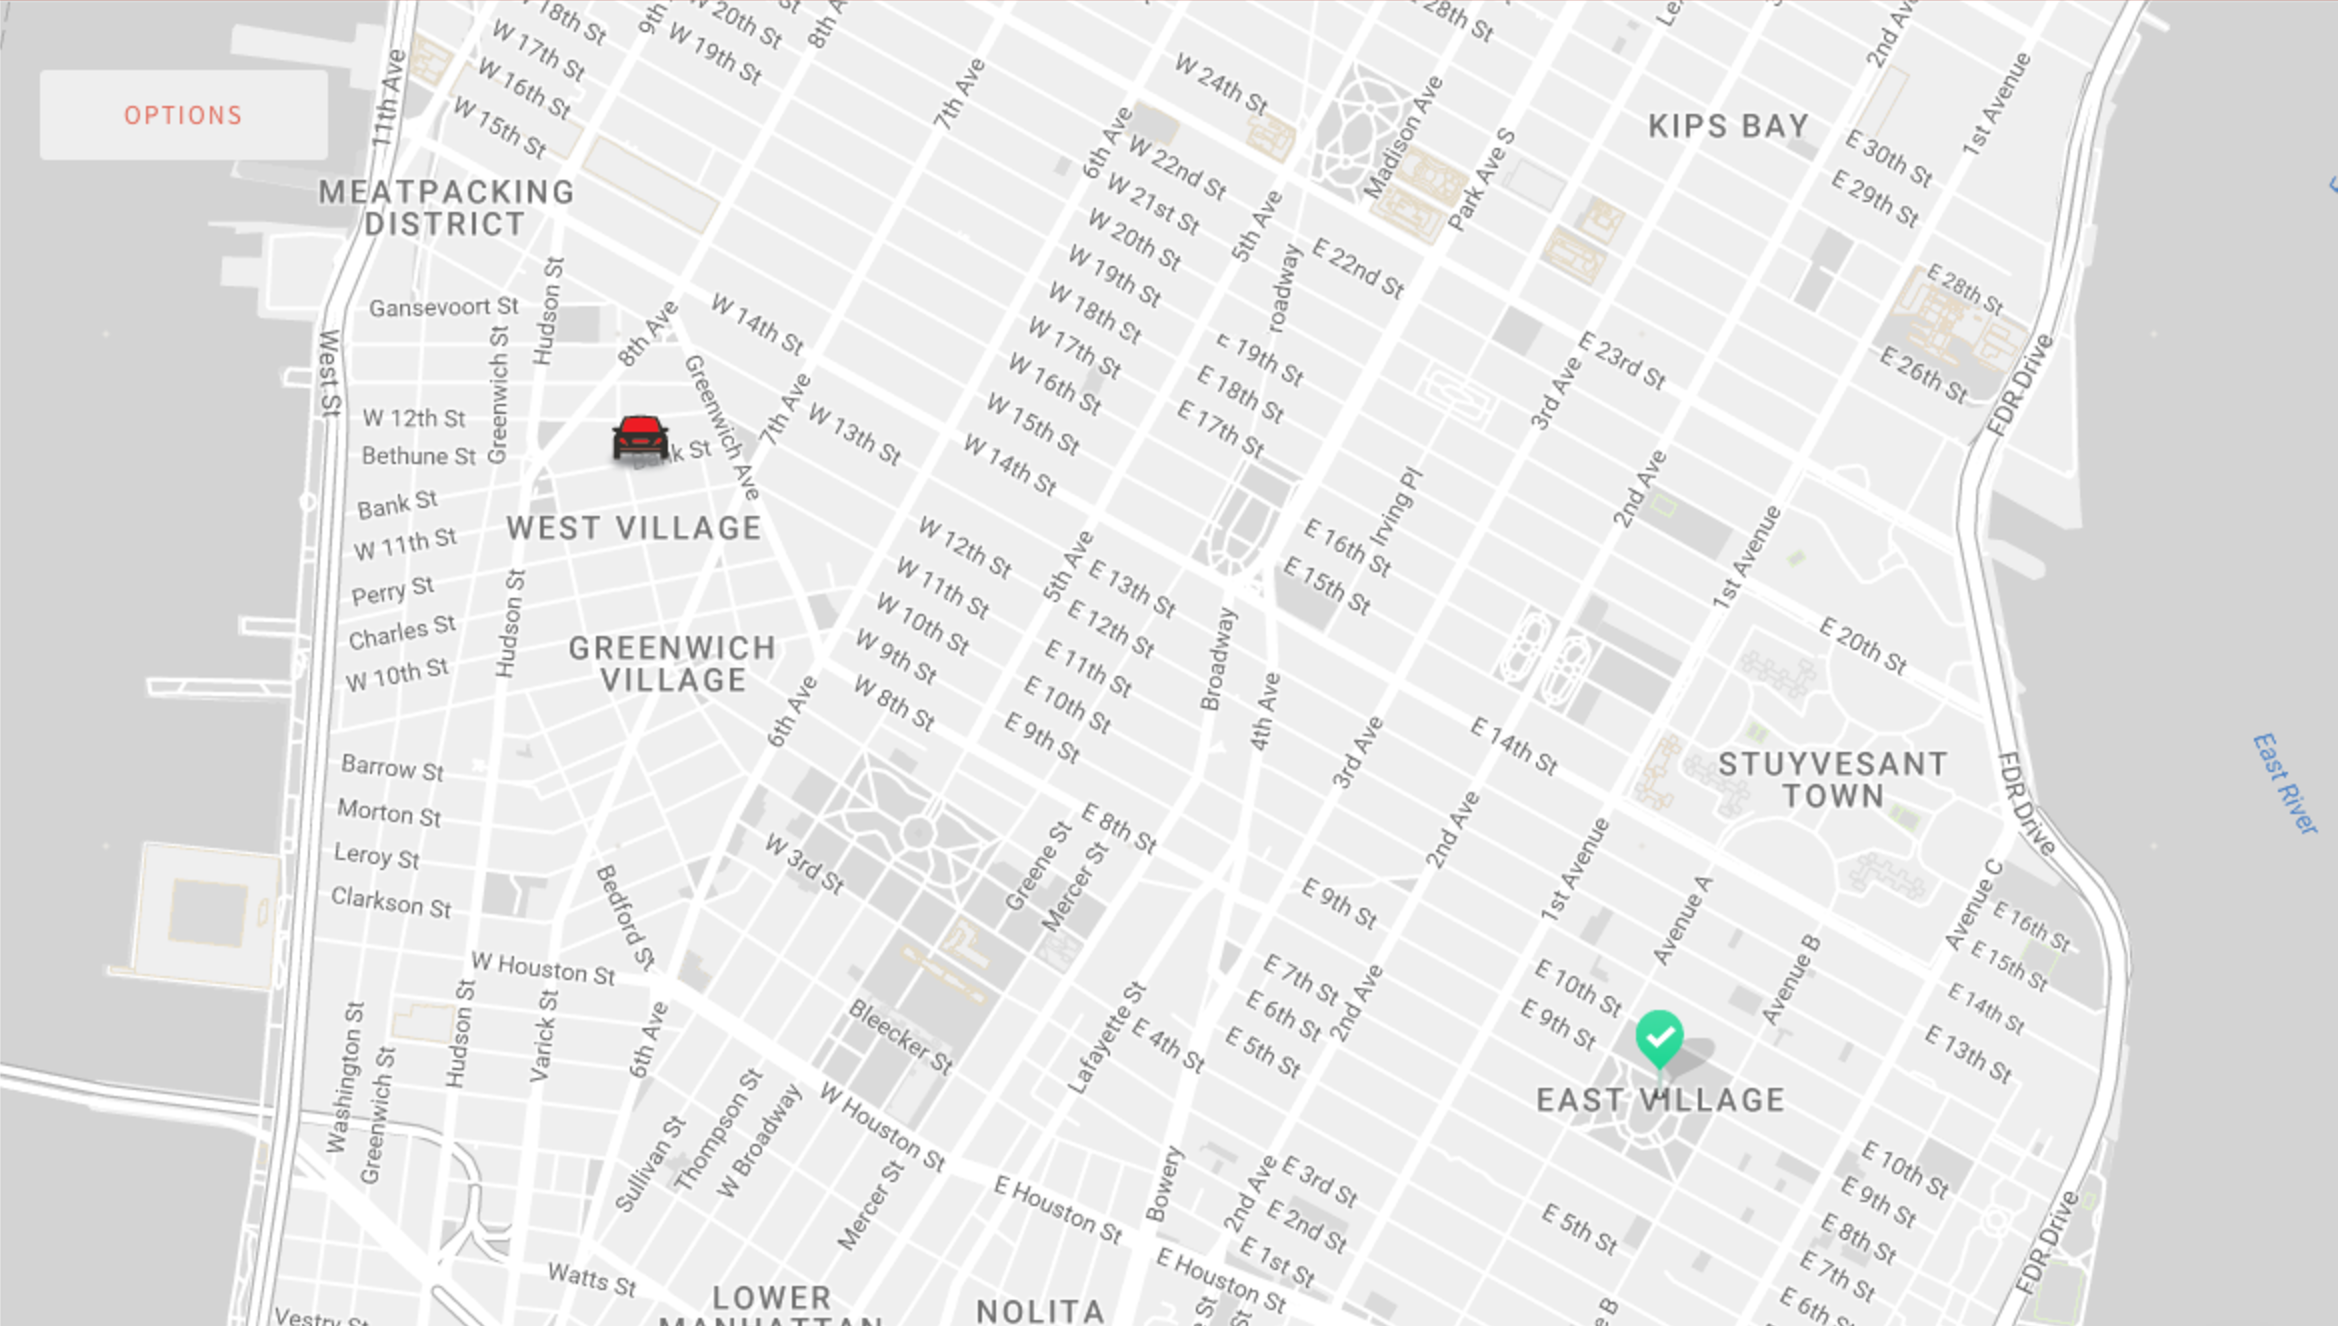
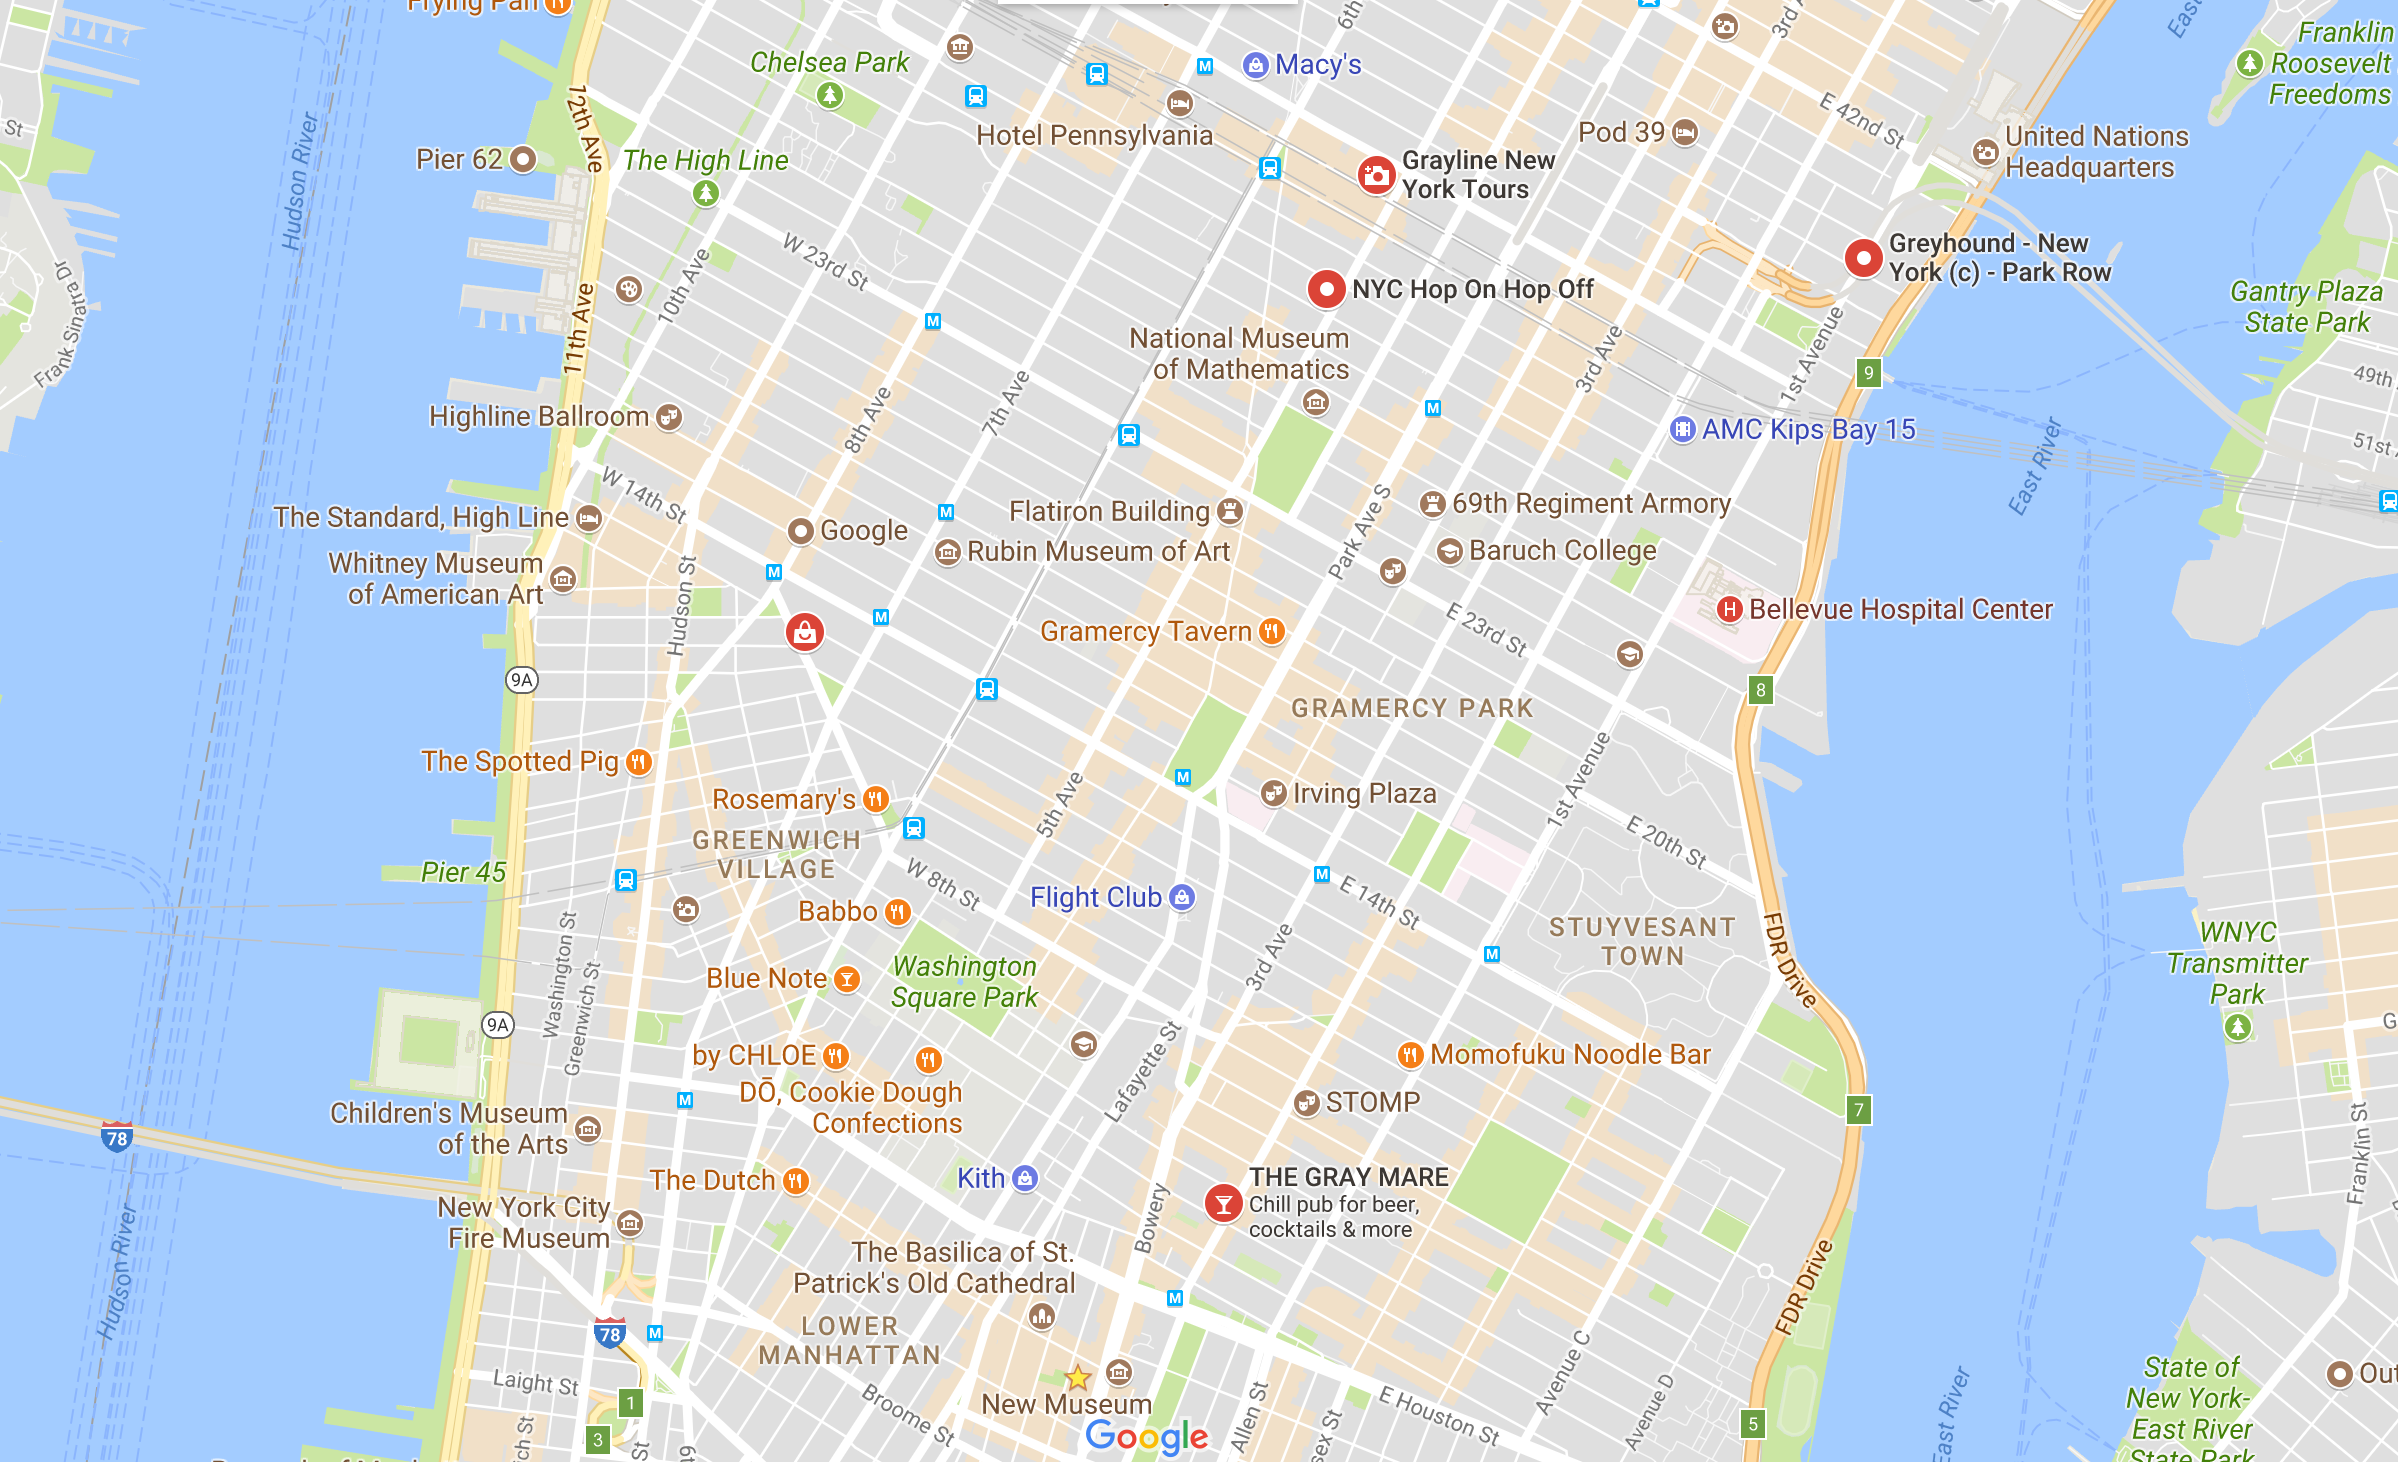
add map

diff --git a/style/css/style.min.css b/style/css/style.min.css
@@ -1,1 +1,1 @@
-body{display:flex;flex:1;margin:0;flex-direction:column;font-family:'Helvetica Neue';letter-spacing:1px;height:100%;width:100%}nav{display:flex;background-color:#E06857;width:100%;height:50px;align-items:center;justify-content:flex-end}nav ul{display:flex;list-style-type:none;align-items:center;margin:0}nav ul li{display:inline;margin-left:20px;margin-right:20px}nav ul li a{text-decoration:none;color:#FFF;font-weight:500}.app-container{display:flex;flex:1;height:100%;width:100%;flex-direction:row}.app-container #map{background-color:green;height:800px;width:100%}.app-container #map #map-options-btn{height:50px;width:140px;border-radius:3px;border-style:none;font-size:16px;color:#E06857;background-color:#eee;cursor:pointer;letter-spacing:1.5px;margin-top:30px;margin-left:20px}.app-container #side-menu{display:flex;flex-direction:column;align-items:center;width:22%;background-color:#FFF;padding:20px 15px}.app-container #side-menu #search{width:100%;height:55px;border-radius:3px;border-style:solid;border-width:2px;border-color:#eee;padding-left:18px;font-size:16px}.app-container #side-menu #menu-btn{height:50px;width:100%;border-radius:3px;border-style:none;font-size:16px;color:#E06857;background-color:#eee;cursor:pointer;letter-spacing:1.5px}.side-menu-el{margin-top:10px;margin-bottom:10px;width:100%}.side-menu-el-container{display:flex;flex:1;flex-direction:column;align-items:center;background-color:#eee;border-radius:3px;padding:15px 6px 8px 6px}.side-menu-el-container .title{font-size:14px;color:#E06857;margin:0}.side-menu-el-container .element{margin-top:15px;width:100%}.card{background-color:#FFF;border-radius:3px;padding:12px 6px;box-shadow:0 2px rgba(0,0,0,0.1)}.card .card-content{flex-direction:row;display:flex;justify-content:space-between}.driver-info{flex-direction:row;display:flex}.driver-info .driver-img{border-radius:4px;height:30px;width:30px}.driver-info .driver-details .driver-name{font-size:11px;margin:1px 8px;font-weight:600;color:#E06857}.driver-info .driver-details .driver-jobs{font-size:10px;margin:1px 8px;color:#969696}.driver-availability{text-align:right}.driver-availability .available-in{font-size:11px;margin:1px 0;font-weight:600;color:#000}.driver-availability .available-minutes{font-size:10px;margin:1px 0;color:#969696}.job-details .job-number{font-size:12px;margin:1px 8px;color:#969696;margin:3px 0}.job-details .job-location{font-size:12px;color:#E06857;margin:3px 0}.job-details .job-author{font-size:12px;font-weight:700;color:#1FD794;margin:3px 0}.job-details .job-due{font-size:12px;color:#F0434A;margin:3px 0}.job-current{display:flex;flex-direction:column;justify-content:space-between;align-items:flex-end}.job-current .job-status{color:#F0434A;font-size:12px;font-weight:600;margin:3px 0}@media screen and (max-width: 860px){.card .card-content{flex-direction:column;align-items:center}.app-container #side-menu{width:30%}.app-container #side-menu #search{height:40px;font-size:14px}.app-container #side-menu #menu-btn{height:35px;font-size:14px}.side-menu-el-container .title{font-size:12px;color:#E06857;margin:0}.driver-info .driver-details .driver-name{font-size:10px}.driver-info .driver-details .driver-jobs{font-size:10px}.driver-availability{text-align:center}.driver-availability .available-in{font-size:10px;margin-top:10px}.driver-availability .available-minutes{font-size:10px}.job-current{align-items:center;margin-top:10px}}@media screen and (max-width: 700px){nav{height:40px}nav ul li a{font-size:16px}nav ul li a img{height:22px;width:22px}.app-container #map #map-options-btn{font-size:12px;height:40px;width:100px;margin-top:20px;margin-left:10px}.app-container #side-menu{width:35%}.app-container #side-menu #search{height:35px;font-size:12px}.app-container #side-menu #menu-btn{height:30px;font-size:12px}.side-menu-el-container .title{font-size:10px;color:#E06857;margin:0}.driver-info .driver-details .driver-name{font-size:9px}.driver-info .driver-details .driver-jobs{font-size:9px}.driver-availability{text-align:center}.driver-availability .available-in{font-size:9px;margin-top:10px}.driver-availability .available-minutes{font-size:9px}.job-current{align-items:center;margin-top:10px}}@media screen and (max-width: 450px){nav{justify-content:center}nav ul{padding:0}nav ul li{margin-right:14px;margin-left:14px}.app-container{flex-direction:column-reverse}.app-container #map #map-options-btn{font-size:9px;height:30px;width:70px;margin-top:20px;margin-left:10px}.app-container #side-menu{width:95%;padding:20px 10px}.app-container #side-menu #search{height:50px;font-size:16px}.app-container #side-menu #menu-btn{height:45px;font-size:16px}.card .card-content{flex-direction:row;justify-content:space-between}.side-menu-el-container .title{font-size:16px;color:#E06857;margin:0}.driver-info .driver-img{border-radius:4px;height:36px;width:36px}.driver-info .driver-details .driver-name{font-size:14px}.driver-info .driver-details .driver-jobs{font-size:13px}.driver-availability{text-align:center}.driver-availability .available-in{font-size:14px;margin-top:0px}.driver-availability .available-minutes{font-size:13px}.job-details .job-number{font-size:14px;margin:1px 8px;color:#969696;margin:3px 0}.job-details .job-location{font-size:14px;color:#E06857;margin:3px 0}.job-details .job-author{font-size:14px;font-weight:700;color:#1FD794;margin:3px 0}.job-details .job-due{font-size:14px;color:#F0434A;margin:3px 0}.card .card-content .job-current{justify-content:space-between;align-items:flex-end}.card .card-content .job-current .job-status{font-size:14px;margin-top:-10px}.card .card-content .job-current .icons8-Alarm-Clock{height:22px;width:22px;margin-top:35px}}
+body{display:flex;flex:1;margin:0;flex-direction:column;font-family:'Helvetica Neue';letter-spacing:1px;height:100%;width:100%}nav{display:flex;background-color:#E06857;width:100%;height:50px;align-items:center;justify-content:flex-end}nav ul{display:flex;list-style-type:none;align-items:center;margin:0}nav ul li{display:inline;margin-left:20px;margin-right:20px}nav ul li a{text-decoration:none;color:#FFF;font-weight:500}.app-container{display:flex;flex:1;height:100%;width:100%;flex-direction:row}.app-container #map{background-color:green;height:800px;width:100%;background-image:url("../../map.png");background-size:100% 100%;background-repeat:no-repeat}.app-container #map #map-options-btn{height:50px;width:140px;border-radius:3px;border-style:none;font-size:16px;color:#E06857;background-color:#eee;cursor:pointer;letter-spacing:1.5px;margin-top:30px;margin-left:20px}.app-container #side-menu{display:flex;flex-direction:column;align-items:center;width:22%;background-color:#FFF;padding:20px 15px}.app-container #side-menu #search{width:100%;height:55px;border-radius:3px;border-style:solid;border-width:2px;border-color:#eee;padding-left:18px;font-size:16px}.app-container #side-menu #menu-btn{height:50px;width:100%;border-radius:3px;border-style:none;font-size:16px;color:#E06857;background-color:#eee;cursor:pointer;letter-spacing:1.5px}.side-menu-el{margin-top:10px;margin-bottom:10px;width:100%}.side-menu-el-container{display:flex;flex:1;flex-direction:column;align-items:center;background-color:#eee;border-radius:3px;padding:15px 6px 8px 6px}.side-menu-el-container .title{font-size:14px;color:#E06857;margin:0}.side-menu-el-container .element{margin-top:15px;width:100%}.card{background-color:#FFF;border-radius:3px;padding:12px 6px;box-shadow:0 2px rgba(0,0,0,0.1)}.card .card-content{flex-direction:row;display:flex;justify-content:space-between}.driver-info{flex-direction:row;display:flex}.driver-info .driver-img{border-radius:4px;height:30px;width:30px}.driver-info .driver-details .driver-name{font-size:11px;margin:1px 8px;font-weight:600;color:#E06857}.driver-info .driver-details .driver-jobs{font-size:10px;margin:1px 8px;color:#969696}.driver-availability{text-align:right}.driver-availability .available-in{font-size:11px;margin:1px 0;font-weight:600;color:#000}.driver-availability .available-minutes{font-size:10px;margin:1px 0;color:#969696}.job-details .job-number{font-size:12px;margin:1px 8px;color:#969696;margin:3px 0}.job-details .job-location{font-size:12px;color:#E06857;margin:3px 0}.job-details .job-author{font-size:12px;font-weight:700;color:#1FD794;margin:3px 0}.job-details .job-due{font-size:12px;color:#F0434A;margin:3px 0}.job-current{display:flex;flex-direction:column;justify-content:space-between;align-items:flex-end}.job-current .job-status{color:#F0434A;font-size:12px;font-weight:600;margin:3px 0}@media screen and (max-width: 860px){.card .card-content{flex-direction:column;align-items:center}.app-container #side-menu{width:30%}.app-container #side-menu #search{height:40px;font-size:14px}.app-container #side-menu #menu-btn{height:35px;font-size:14px}.side-menu-el-container .title{font-size:12px;color:#E06857;margin:0}.driver-info .driver-details .driver-name{font-size:10px}.driver-info .driver-details .driver-jobs{font-size:10px}.driver-availability{text-align:center}.driver-availability .available-in{font-size:10px;margin-top:10px}.driver-availability .available-minutes{font-size:10px}.job-current{align-items:center;margin-top:10px}}@media screen and (max-width: 700px){nav{height:40px}nav ul li a{font-size:16px}nav ul li a img{height:22px;width:22px}.app-container #map #map-options-btn{font-size:12px;height:40px;width:100px;margin-top:20px;margin-left:10px}.app-container #side-menu{width:35%}.app-container #side-menu #search{height:35px;font-size:12px}.app-container #side-menu #menu-btn{height:30px;font-size:12px}.side-menu-el-container .title{font-size:10px;color:#E06857;margin:0}.driver-info .driver-details .driver-name{font-size:9px}.driver-info .driver-details .driver-jobs{font-size:9px}.driver-availability{text-align:center}.driver-availability .available-in{font-size:9px;margin-top:10px}.driver-availability .available-minutes{font-size:9px}.job-current{align-items:center;margin-top:10px}}@media screen and (max-width: 450px){nav{justify-content:center}nav ul{padding:0}nav ul li{margin-right:14px;margin-left:14px}.app-container{flex-direction:column-reverse}.app-container #map #map-options-btn{font-size:9px;height:30px;width:70px;margin-top:20px;margin-left:10px}.app-container #side-menu{width:95%;padding:20px 10px}.app-container #side-menu #search{height:50px;font-size:16px}.app-container #side-menu #menu-btn{height:45px;font-size:16px}.card .card-content{flex-direction:row;justify-content:space-between}.side-menu-el-container .title{font-size:16px;color:#E06857;margin:0}.driver-info .driver-img{border-radius:4px;height:36px;width:36px}.driver-info .driver-details .driver-name{font-size:14px}.driver-info .driver-details .driver-jobs{font-size:13px}.driver-availability{text-align:center}.driver-availability .available-in{font-size:14px;margin-top:0px}.driver-availability .available-minutes{font-size:13px}.job-details .job-number{font-size:14px;margin:1px 8px;color:#969696;margin:3px 0}.job-details .job-location{font-size:14px;color:#E06857;margin:3px 0}.job-details .job-author{font-size:14px;font-weight:700;color:#1FD794;margin:3px 0}.job-details .job-due{font-size:14px;color:#F0434A;margin:3px 0}.card .card-content .job-current{justify-content:space-between;align-items:flex-end}.card .card-content .job-current .job-status{font-size:14px;margin-top:-10px}.card .card-content .job-current .icons8-Alarm-Clock{height:22px;width:22px;margin-top:35px}}

diff --git a/style/sass/style.scss b/style/sass/style.scss
@@ -53,6 +53,9 @@ nav {
     background-color: green;
     height: 800px;
     width: 100%;
+    background-image: url("../../map.png");
+    background-size: 100% 100%;
+    background-repeat: no-repeat;
 
     #map-options-btn {
       height: 50px;
